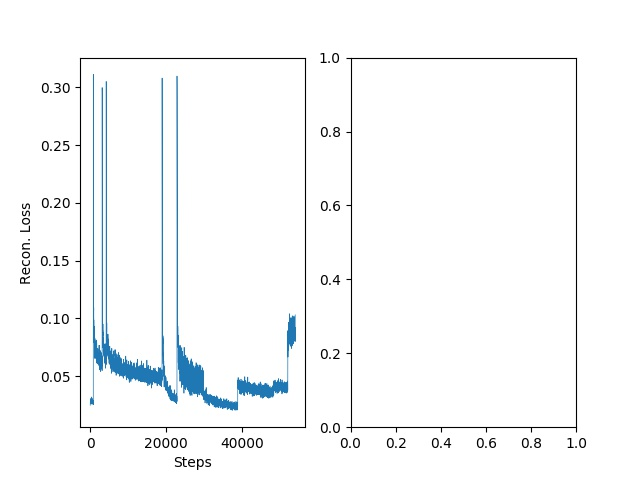
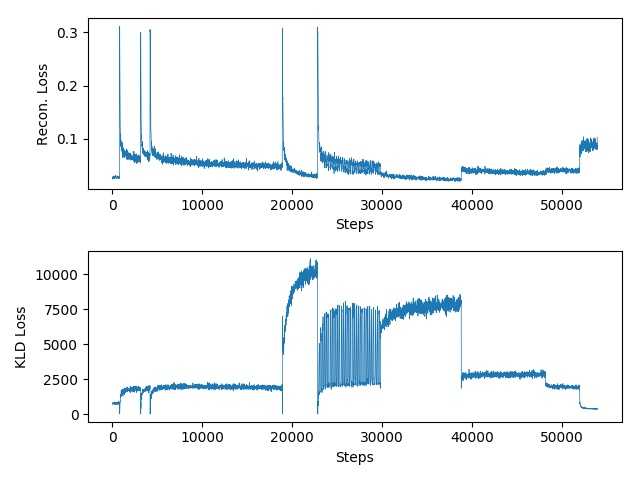
[A] problem.py rand_generator

diff --git a/hw4/VAE/problems.py b/hw4/VAE/problems.py
@@ -17,6 +17,7 @@ except :
 
 
 
+
 def tsne(dataset_fp, vae_fp, out_fp) :
     """
     Problem 1-5 plot t-SNE.
@@ -82,15 +83,56 @@ def lcurve(record_fp, output_fp) :
 
     data = json.loads(data)
     recon_loss = data["recon_loss"]
+    KLD_loss = data["KLD_loss"]
     record_step = 10
     steps = np.array(range(len(recon_loss))) * record_step
 
-    plt.subplot(1, 2, 1)
-    plt.plot(steps, recon_loss, linewidth=0.5)
+    plt.subplot(2, 1, 1)
+    plt.plot(steps, recon_loss, linewidth=0.5,)
     plt.xlabel("Steps")
     plt.ylabel("Recon. Loss")
-    plt.subplot(1, 2, 2)
-    plt.savefig(os.path.join(out_fp, "fig1_1.jpg"))
+
+    plt.subplot(2, 1, 2)
+    plt.plot(steps, KLD_loss, linewidth=0.5)
+    plt.xlabel("Steps")
+    plt.ylabel("KLD Loss")
+
+    plt.tight_layout()
+    plt.savefig(os.path.join(out_fp, "fig1_2.jpg"))
+
+
+
+
+def rand_generator(dataset_fp, output_fp, model_fp) :
+    import torch as tor
+    from torch.autograd import Variable
+
+    try :
+        from model_2 import VAE
+    except :
+        from .model_2 import VAE
+
+    tor.manual_seed(0)
+    generate_num = 32
+    latent_size = 512
+
+    model = VAE()
+    model.training = False
+    model.cuda()
+    model.load_state_dict(tor.load(model_fp))
+
+    x = Variable(tor.randn(generate_num, latent_size)).cuda()
+
+    imgs = model(x)
+    imgs = ((imgs.permute(0, 2, 3, 1).cuda().data.nump() / 2.0 ) + 0.5) * 255
+    imgs = imgs.astype(np.int16)
+
+    for i, img in enumerate(imgs, 1) :
+        plt.subplot(4, 8, i)
+        plt.imshow(img)
+
+    plt.savefig(os.path.join(out_fp, "fig1_4.jpg"))
+
 
 
 
@@ -115,3 +157,6 @@ if __name__ == "__main__" :
 
     elif q == "lcurve" :
         lcurve(record_fp, out_fp)
+
+    elif q == "rg" :
+        rand_generator(dataset_fp, out_fp, model_fp)
